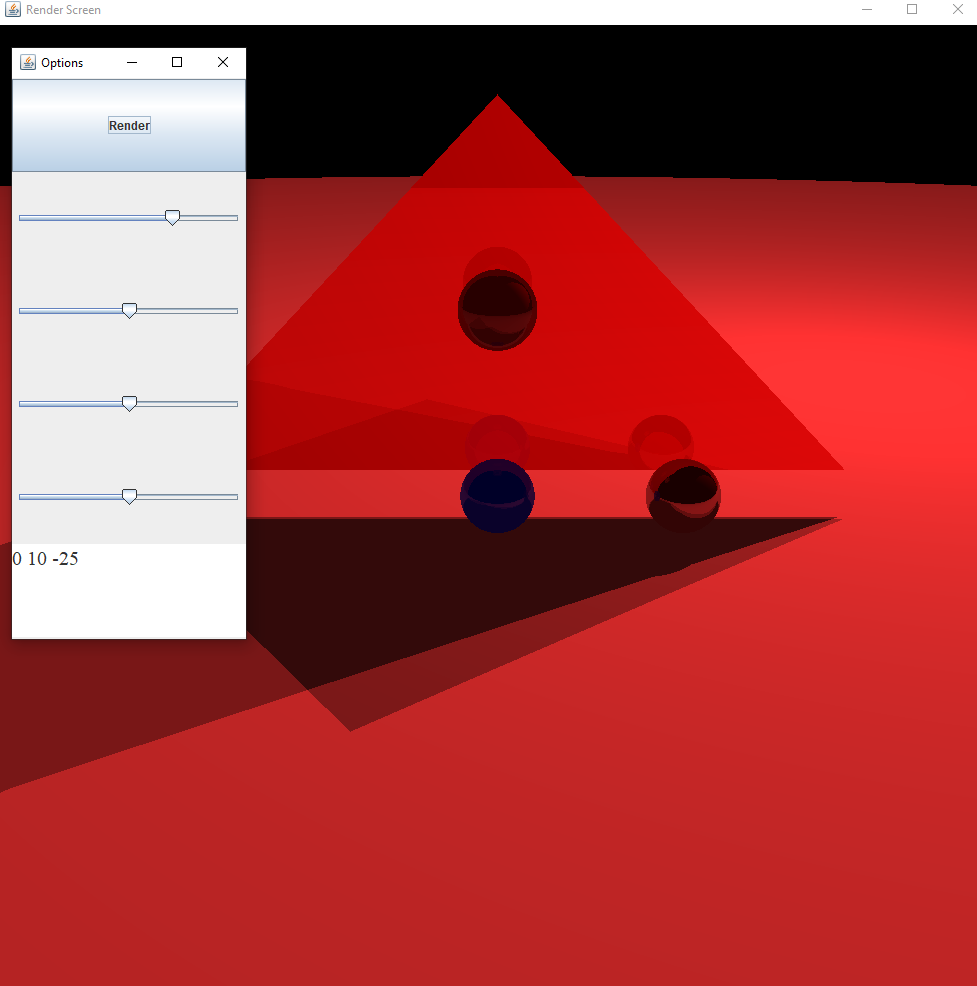
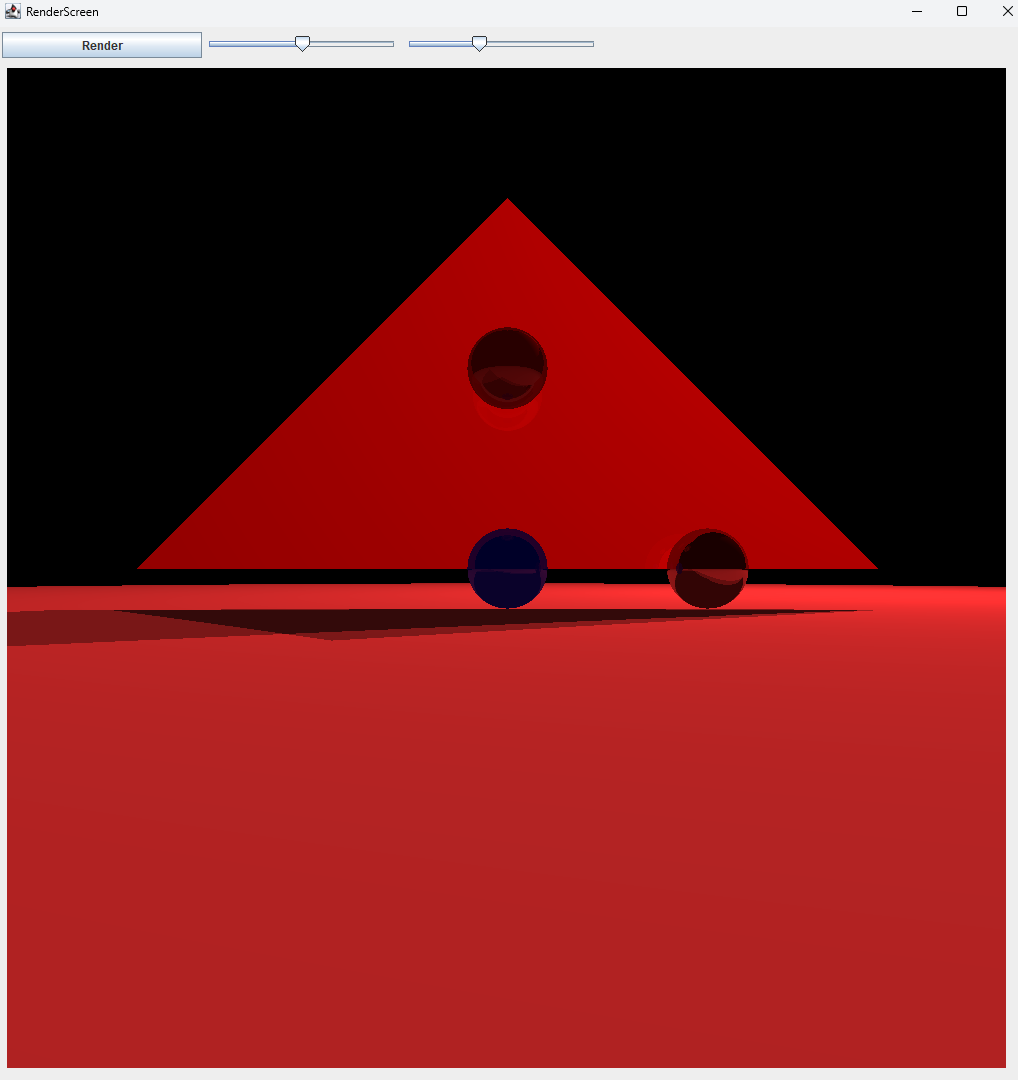
Changed gui and added camera movement through keybindings. Added methods to support simple rendering without lighting and reflections when moving camera to prepare for complex render.

diff --git a/Base/RenderGUI.java b/Base/RenderGUI.java
@@ -1,69 +1,153 @@
 package Base;
-import java.awt.Font;
-import java.awt.GridLayout;
+import java.awt.*;
 import java.awt.event.ActionEvent;
 import java.awt.event.ActionListener;
+import java.awt.event.KeyEvent;
+import java.awt.event.KeyListener;
 import java.util.Scanner;
 
-import javax.swing.JButton;
-import javax.swing.JFrame;
-import javax.swing.JSlider;
-import javax.swing.JTextArea;
+import javax.swing.*;
 
 import Base.RenderComponents.Settings;
-public class RenderGUI extends JFrame {
+public class RenderGUI extends JFrame implements KeyListener {
     Render render;
     Canvas renderCanvas;
     JButton renderButton;
-    JSlider RXSlider;
-    JSlider RYSlider;
-    JSlider RZSlider;
     JSlider ReflectiveSlider;
-    JTextArea camerOrginArea;
+    JSlider jumpSlider;
+    double xRot;
+    double yRot;
+    double zRot;
+    double[] cameraOrgin;
     public RenderGUI(){
-        super("Options");
-        setLayout(new GridLayout(6, 0));
-        setSize(250, 600);
+        super("RenderScreen");
+
+        //set default
+        xRot = 0;
+        yRot = 0;
+        zRot = 0;
+        cameraOrgin = new double[]{0,0,-25};
+
+
+        setLayout(new FlowLayout(FlowLayout.LEADING));
+        JPanel options = new JPanel(new GridLayout(0,3));
 
         renderButton = new JButton("Render");
-        add(renderButton);
+        options.add(renderButton);
         renderButton.addActionListener(new renderButtonLisitiner());
-
-        RXSlider = new JSlider(-100, 100, 0);
-        add(RXSlider);
-
-        RYSlider = new JSlider(-100, 100, 0);
-        add(RYSlider);
-
-        RZSlider = new JSlider(-100, 100, 0);
-        add(RZSlider);
+        renderButton.setFocusable(false);
 
         ReflectiveSlider = new JSlider(0, 6, 3);
-        add(ReflectiveSlider);
+        ReflectiveSlider.setFocusable(false);
+        options.add(ReflectiveSlider);
 
-        camerOrginArea = new JTextArea("0 0 0", 1, 0);
-        add(camerOrginArea);
-        camerOrginArea.setFont(new Font("Serif",Font.PLAIN,20));
+        jumpSlider = new JSlider(1, 25, 10);
+        jumpSlider.setFocusable(false);
+        options.add(jumpSlider);
 
         render = new Render();
         renderCanvas = new Canvas(Settings.cW, Settings.cH);
+
+        options.setSize(250,1000);
+        setSize(1050,1100);
+
         renderCanvas.setVisible(true);
+        options.setVisible(true);
+        add(options);
+        addKeyListener(this);
+        setFocusable(true);
+        add(renderCanvas);
     }
-    public double[] getCameraOrgin(){
-        Scanner s = new Scanner(camerOrginArea.getText());
-        int x = s.nextInt();
-        int y = s.nextInt();
-        int z = s.nextInt();
-        s.close();
-        return new double[]{x,y,z};
+    @Override
+    public void keyTyped(KeyEvent e) {
+
     }
+
+    @Override
+    public void keyPressed(KeyEvent e) {
+        if (e.getKeyCode() == KeyEvent.VK_RIGHT) {
+            yRot+= (double) jumpSlider.getValue()/25;
+        }
+        if (e.getKeyCode() == KeyEvent.VK_LEFT) {
+            yRot-=(double) jumpSlider.getValue()/25;
+        }
+        if (e.getKeyCode() == KeyEvent.VK_UP) {
+            xRot-=(double) jumpSlider.getValue()/25;
+        }
+        if (e.getKeyCode() == KeyEvent.VK_DOWN) {
+            xRot+=(double) jumpSlider.getValue()/25;
+        }
+        if (e.getKeyCode() == KeyEvent.VK_CLOSE_BRACKET) {
+            zRot+=(double) jumpSlider.getValue()/25;
+        }
+        if (e.getKeyCode() == KeyEvent.VK_OPEN_BRACKET) {
+            zRot-=(double) jumpSlider.getValue()/25;
+        }
+        if (e.getKeyCode() == KeyEvent.VK_EQUALS) {
+            cameraOrgin[2]+=1;
+        }
+        if (e.getKeyCode() == KeyEvent.VK_MINUS) {
+            cameraOrgin[2]-=1;
+        }
+        if (e.getKeyCode() == KeyEvent.VK_NUMPAD2) {
+            cameraOrgin[1]+=1;
+        }
+        if (e.getKeyCode() == KeyEvent.VK_NUMPAD8) {
+            cameraOrgin[1]-=1;
+        }
+        if (e.getKeyCode() == KeyEvent.VK_NUMPAD4) {
+            cameraOrgin[0]+=1;
+        }
+        if (e.getKeyCode() == KeyEvent.VK_NUMPAD6) {
+            cameraOrgin[0]-=1;
+        }
+
+
+    }
+
+    @Override
+    public void keyReleased(KeyEvent e) {
+        int reflRecursion = ReflectiveSlider.getValue();
+
+        int threadCount =  Settings.thread_count;
+        if (threadCount % 2 != 0) threadCount++;
+
+        int xBlockSize = threadCount/2;
+        int yBlockSize = 2;
+
+        int xSegSize = Settings.cW/xBlockSize;
+        int ySegSize = Settings.cH/yBlockSize;
+
+        for (int i = 0; i < yBlockSize; i++){
+            for (int j = 0; j < xBlockSize; j++){
+                int finalJ = j;
+                int finalI = i;
+
+                // min and max screen numbers
+                //xMin = -Settings.cW/2
+                //xMax = Settings.cW/2
+                //yMin = -Settings.cH/2 + 1
+                //yMax = Settings.cH/2;
+
+                int xMin = finalJ*xSegSize - Settings.cW/2;
+                int xMax = (finalJ+1)*xSegSize - Settings.cW/2;
+                int yMin = (finalI*ySegSize) - Settings.cH/2;
+                int yMax = (finalI+1)*ySegSize -  Settings.cH/2 + 1;
+
+                Runnable renderThread = () ->
+                {
+                    render.simpleRender(renderCanvas, cameraOrgin, xRot, yRot, zRot, reflRecursion, xMin, xMax, yMin, yMax);
+                };
+                Thread run = new Thread(renderThread);
+                run.start();
+            }
+        }
+
+    }
+
     private class renderButtonLisitiner implements ActionListener{
         public void actionPerformed(ActionEvent e){
-            double xRot = RXSlider.getValue() / 100.0f;
-            double yRot = RYSlider.getValue() / 100.0f;
-            double zRot = RZSlider.getValue() / 100.0f;
             int reflRecursion = ReflectiveSlider.getValue();
-
 
             int threadCount =  Settings.thread_count;
             if (threadCount % 2 != 0) threadCount++;
@@ -92,7 +176,7 @@ public class RenderGUI extends JFrame {
 
                     Runnable renderThread = () ->
                     {
-                        render.render(renderCanvas, getCameraOrgin(), xRot, yRot, zRot, reflRecursion, xMin, xMax, yMin, yMax);
+                        render.render(renderCanvas, cameraOrgin, xRot, yRot, zRot, reflRecursion, xMin, xMax, yMin, yMax);
                     };
                     Thread run = new Thread(renderThread);
                     run.start();

diff --git a/Base/Render.java b/Base/Render.java
@@ -22,6 +22,29 @@ class Render{
         }
         screen.display();
     }
+    public void simpleRender(Canvas screen, double[] O, double xRot, double yRot, double zRot, int recursion_depth, int xMin, int xMax, int yMin, int yMax){
+        //xMin = -Settings.cW/2
+        //xMax = Settings.cW/2
+        //yMin = -Settings.cH/2 + 1
+        //yMax = Settings.cH/2;
+        for (int x = xMin; x < xMax; x++){
+            for (int y = yMin + 1; y < yMax; y++){
+                double[] D = RenderMath.rotate(RenderMath.canvasToViewport(x, y), xRot, yRot, zRot); //V - O
+                Color color = simpleTraceRay(O, D, 0.001, Settings.render_distance, recursion_depth);
+                screen.putPixel(x, y, color);
+            }
+        }
+        screen.display();
+    }
+    private Color simpleTraceRay(double[] O, double[] D, double t_min, double t_max, int recursion_depth){
+        RenderContainer primitive = getClosestPrimitiveColorAndT(O, D, 0.001, t_max);
+
+        if (primitive == null){
+            return Color.BLACK();
+        }
+
+        return primitive.getColor();
+    }
     
     private Color traceRay(double[] O, double[] D, double t_min, double t_max, int recursion_depth){
         RenderContainer primitive = getClosestPrimitiveColorAndT(O, D, 0.001, t_max);

diff --git a/Base/Canvas.java b/Base/Canvas.java
@@ -1,21 +1,17 @@
 package Base;
-import javax.swing.ImageIcon;
-import javax.swing.JFrame;
-import javax.swing.JLabel;
+import javax.swing.*;
 
 import Base.RenderComponents.Color;
 import Base.RenderComponents.Settings;
 
 import java.awt.image.BufferedImage;
 
-public class Canvas extends JFrame{
+public class Canvas extends JPanel {
 
     private BufferedImage displayImage;
     private JLabel label;
     
     Canvas(int cWidth,int cHeight){//display
-        super("Render Screen");
-
         label = new JLabel();
         add(label);
 
@@ -23,7 +19,6 @@ public class Canvas extends JFrame{
 
 
         setSize(cWidth, cHeight);
-        setDefaultCloseOperation(JFrame.EXIT_ON_CLOSE);
     }
     public void putPixel(int x, int y, Color color){
         

diff --git a/README.md b/README.md
@@ -6,17 +6,15 @@ Basics based off the book "Computer Graphics From Scratch" by Gabriel Gambetta
 
 Compile all and run `Start.java`.
 
-From top down the GUI consists of:
+From top down and left to right the GUI consists of:
 - Render button
-- Rotation along x-axis (Rx) slider
-- Ry slider
-- Rz slider
 - Max reflective recursions
-- Camera origin text area -> "0 0 0"
+- Jump amount when pressing the keys(0-1)
+- Render screen (simple render unless render button is pressed)
 
 ## TODO
 
-- Render export and GUI update
+- Render export
 - 3D file support (for now STL because it's simple)
 - Transparency
 - Refraction
@@ -25,3 +23,17 @@ From top down the GUI consists of:
 - More comments
 - Eventually tools for building a scene
 - Cleanup and better code organization
+
+## KEYBINDINGS
+up arrow = rotate camera up
+down arrow = rotate camera down
+left arrow = rotate camera left
+right arrow = rotate camera right
+minus = zoom camera out
+equals = zoom camera in
+numpad 8 = move camera up
+numpad 2 = move camera down
+numpad 4 = move camera left
+numpad 6 = move camera right
+numpad 0 = rotate camera along z axis left
+numpad delete = rotate camera along z agis right
